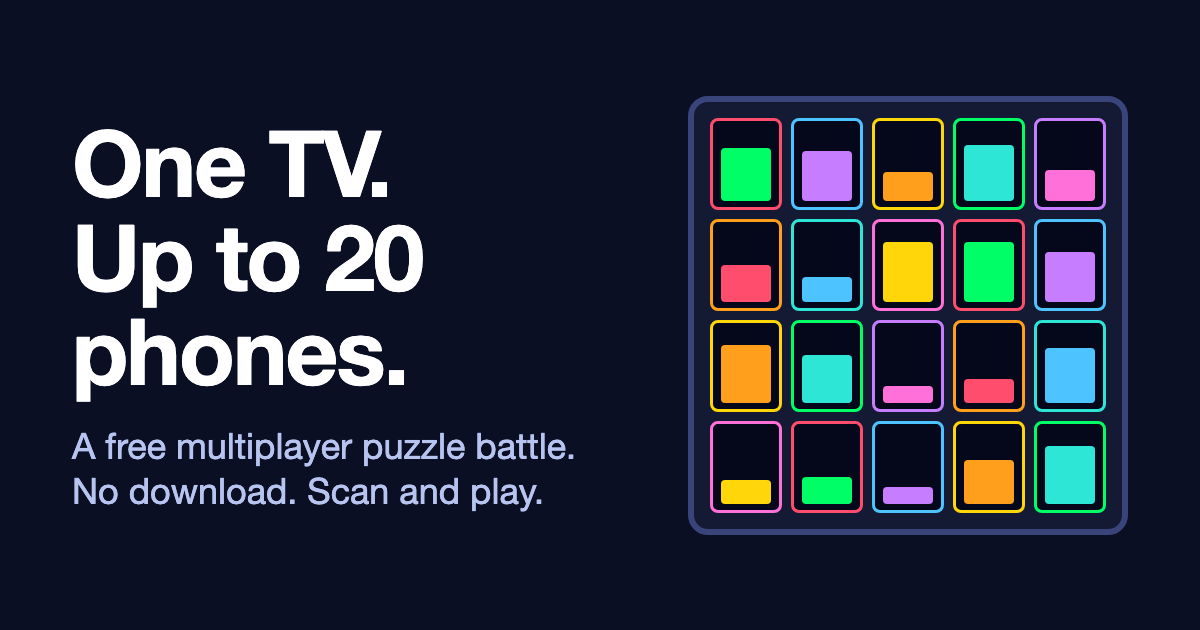
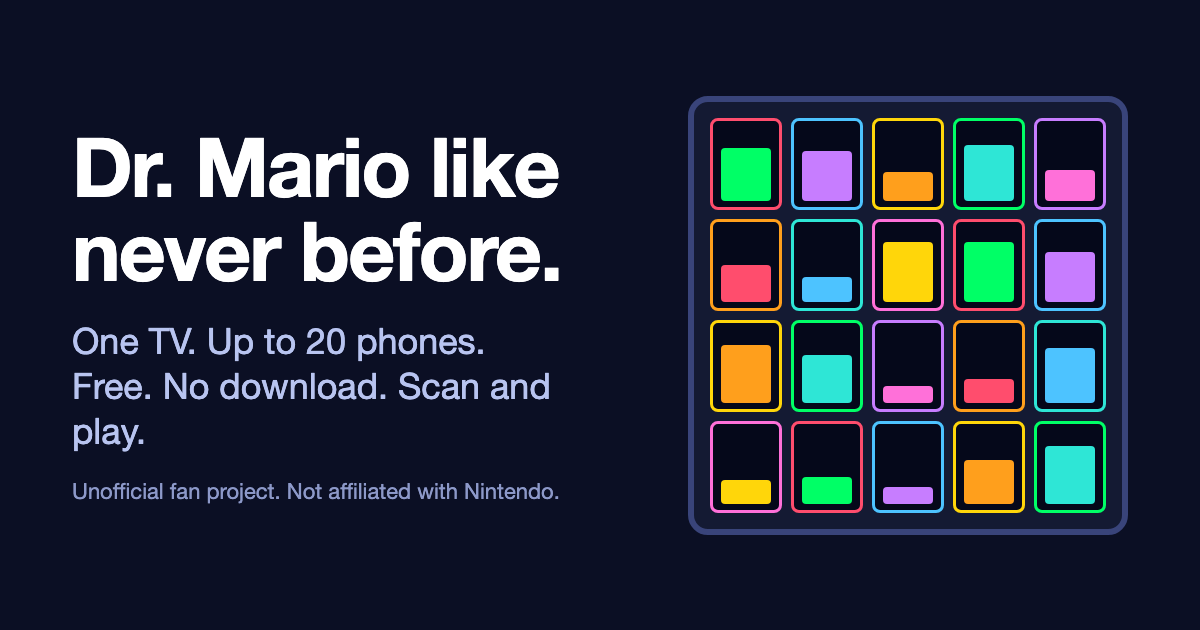
Launch as Dr. Mario: "Dr. Mario like never before", openly an unofficial fan project

Changed region(s): [[0.0617, 0.181, 0.4625, 0.6333], [0.0617, 0.6635, 0.4933, 0.8143]]

diff --git a/public/index.html b/public/index.html
@@ -17,14 +17,14 @@
             document.addEventListener('gesturestart', (e) => e.preventDefault(), { passive: false });
         })();
     </script>
-    <title>Dr. Mario 99: Free Multiplayer Puzzle Battle</title>
-    <meta name="description" content="A free multiplayer puzzle battle in your browser. Play now, or put it on a TV and use up to 20 phones as controllers. No download.">
+    <title>Dr. Mario 99: Dr. Mario Like Never Before</title>
+    <meta name="description" content="Dr. Mario like never before: battle up to 20 players on one TV with your phones as controllers, or up to 8 online. Free, in your browser, no download. Unofficial fan project, not affiliated with Nintendo.">
     <link rel="canonical" href="https://dr-mario99.onrender.com/">
     <link rel="icon" href="/icon.svg" type="image/svg+xml">
     <meta property="og:type" content="website">
     <meta property="og:url" content="https://dr-mario99.onrender.com/">
-    <meta property="og:title" content="One TV. Up to 20 phones. Free puzzle battle.">
-    <meta property="og:description" content="A free multiplayer puzzle battle in your browser. Play now, or put it on a TV and use up to 20 phones as controllers. No download.">
+    <meta property="og:title" content="Dr. Mario 99: Dr. Mario like never before">
+    <meta property="og:description" content="Dr. Mario like never before: battle up to 20 players on one TV with your phones as controllers, or up to 8 online. Free, in your browser, no download. Unofficial fan project, not affiliated with Nintendo.">
     <meta property="og:image" content="https://dr-mario99.onrender.com/og.png">
     <meta property="og:image:width" content="1200">
     <meta property="og:image:height" content="630">

diff --git a/public/scripts/share.js b/public/scripts/share.js
@@ -4,7 +4,7 @@
  */
 window.shareGame = async (ref, button) => {
     const url = `${location.origin}/?ref=${ref}`
-    const text = 'Come play: a puzzle battle for up to 20 players. Free, no download.'
+    const text = 'Dr. Mario like never before: up to 20 players on one TV, with your phones as controllers. Free, no download.'
     const label = button.textContent
     try {
         if (navigator.share) return await navigator.share({ title: document.title, text, url })

diff --git a/README.md b/README.md
@@ -1,13 +1,20 @@
-# Dr. Mario
-Dr. Mario clone in vanilla JavaScript
+# Dr. Mario 99
 
-[Play online](https://rubikon02.github.io/projects/dr-mario)
+Dr. Mario like never before: a free multiplayer battle in your browser.
 
-# Screenshots
+**[Play now](https://dr-mario99.onrender.com/?ref=github)**
+
+- **TV Room:** put it on a TV and up to 20 people scan a QR code. Their phones become the controllers, with no app or sign-up. Teams and CPU players too.
+- **Multiplayer:** make a room for up to 8, or jump into Free Play.
+- **Single player:** with the keyboard, your phone, or a Nintendo Switch Pro Controller.
+
+Clear your viruses to send junk to your opponents. Clear them all first, or be the last one standing, to win.
+
+Started from [rubikon02's Dr. Mario clone](https://rubikon02.github.io/projects/dr-mario).
+
+Unofficial fan project. Not affiliated with or endorsed by Nintendo. Dr. Mario is a trademark of Nintendo.
+
+## Screenshots
 
 ![screenshot01](screenshots/screenshot01.png)
 ![screenshot02](screenshots/screenshot02.png)
-![screenshot03](screenshots/screenshot03.png)
-![screenshot04](screenshots/screenshot04.png)
-![screenshot05](screenshots/screenshot05.png)
-![screenshot06](screenshots/screenshot06.png)
